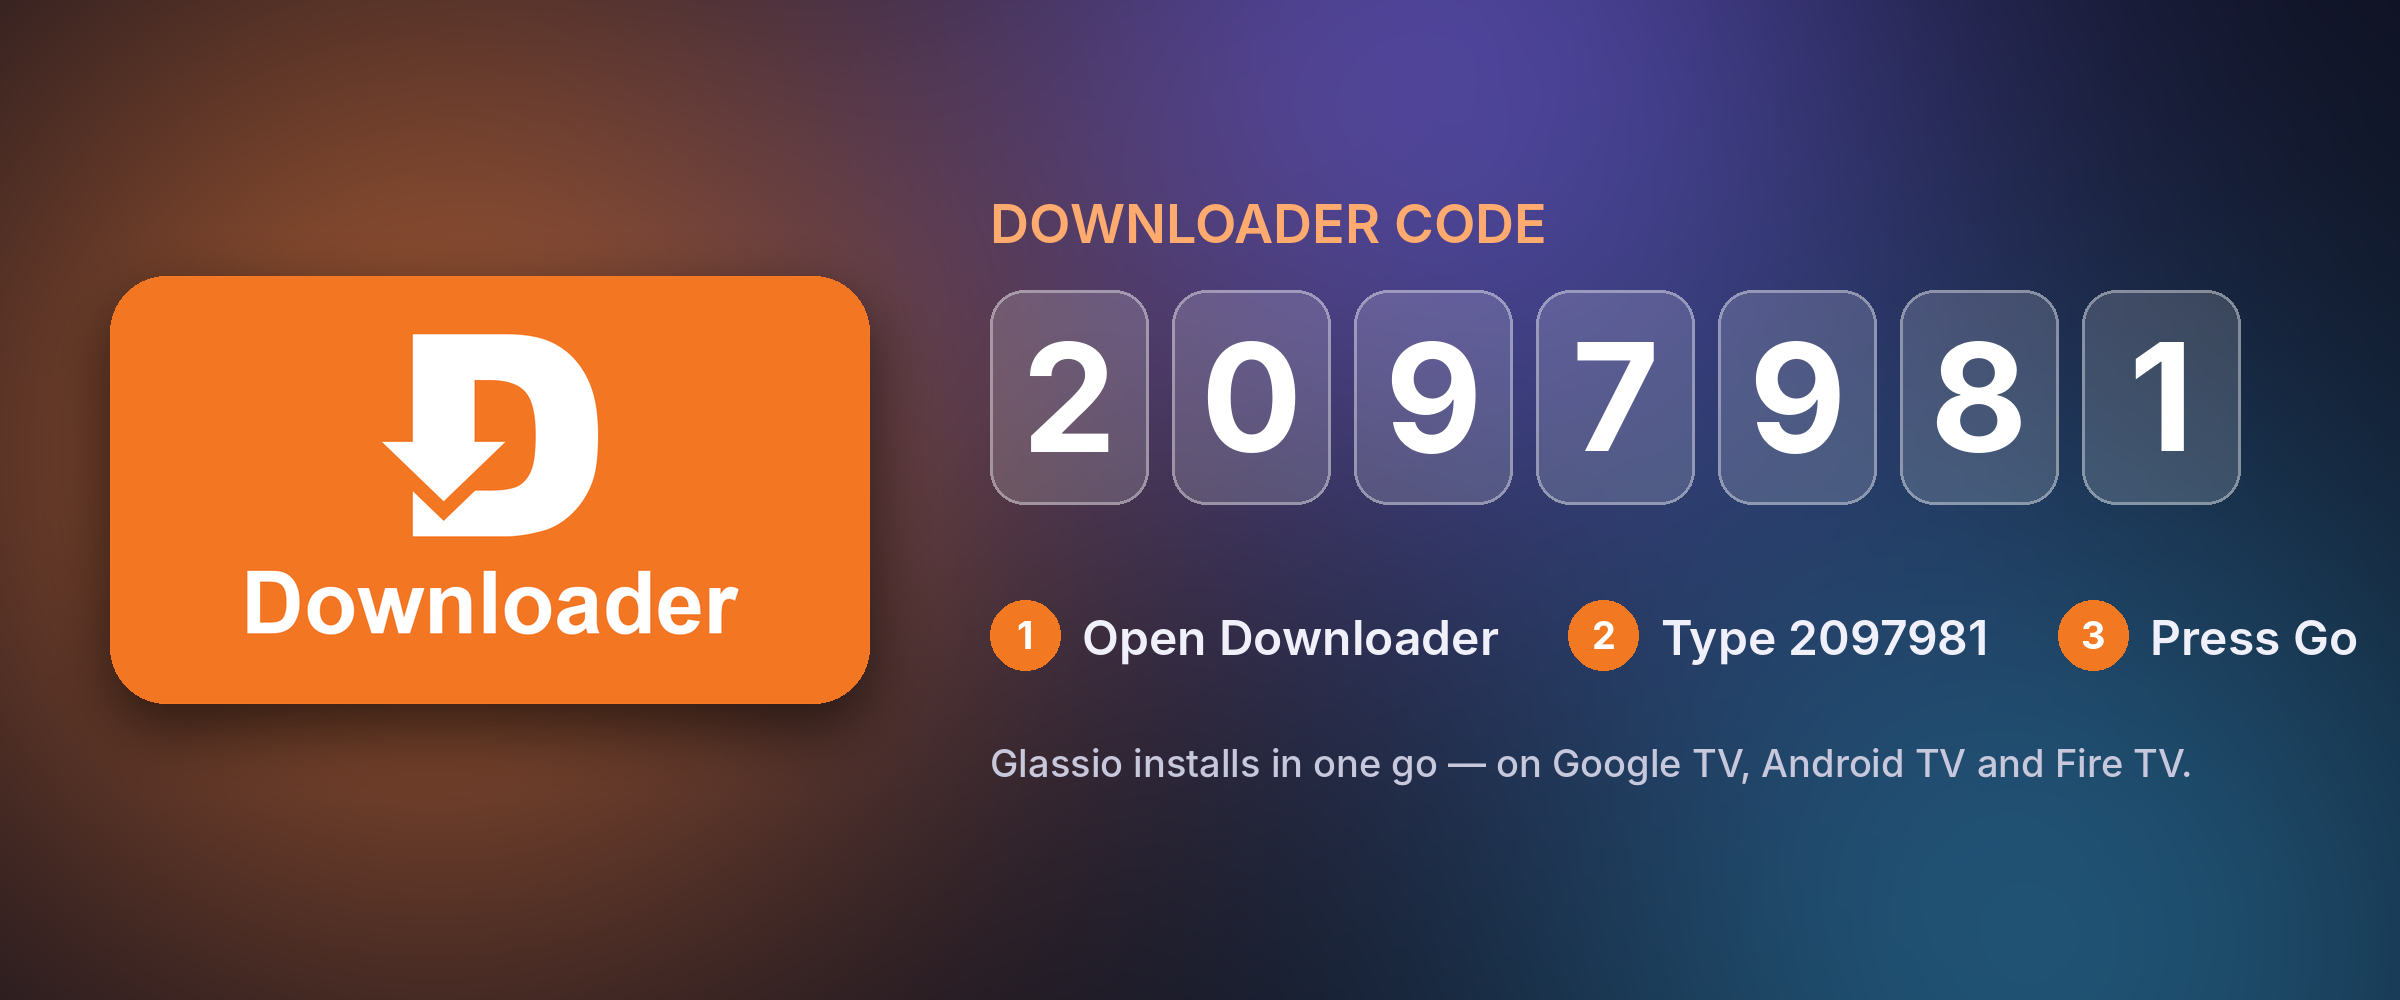
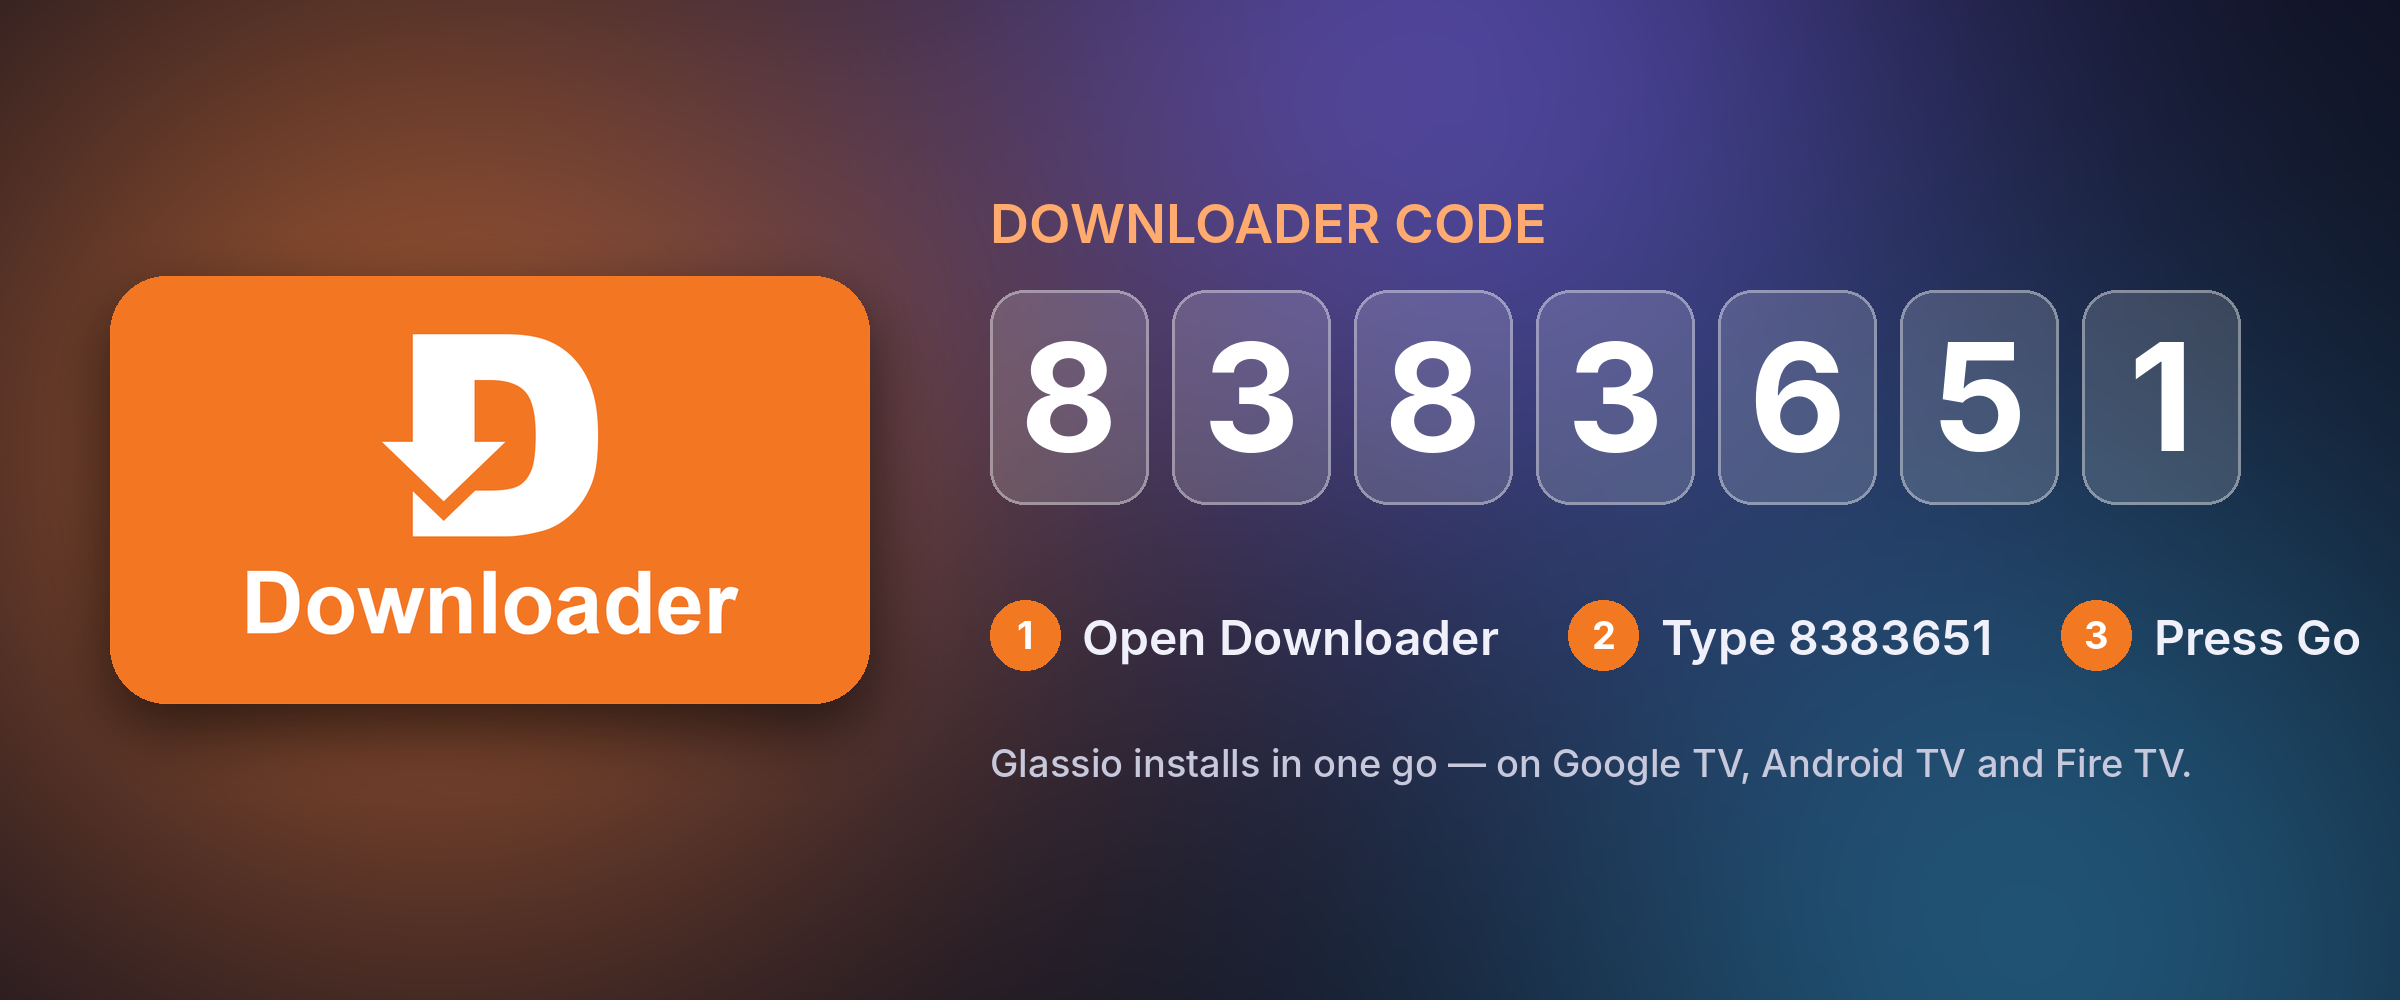
README: Downloader code 8383651 (always the latest release)

diff --git a/docs/README.ar.md b/docs/README.ar.md
@@ -2,7 +2,7 @@
 
 <p align="center">
   <a href="https://www.reddit.com/r/glassio_/"><img src="https://img.shields.io/badge/Reddit-r%2Fglassio__-FF4500?style=for-the-badge&logo=reddit&logoColor=white" alt="انضم لـ r/glassio_ على ريدت"></a>
[2 lines of base64/hex data omitted]
   <a href="https://github.com/mohammadmrh12/glassio/releases/latest"><img src="https://img.shields.io/github/v/release/mohammadmrh12/glassio?style=for-the-badge&label=Download&color=6E5BFF" alt="Download the latest release"></a>
   <a href="https://github.com/mohammadmrh12/glassio/discussions"><img src="https://img.shields.io/badge/Discussions-GitHub-2EA2C4?style=for-the-badge&logo=github&logoColor=white" alt="Discussions"></a>
 </p>
@@ -48,11 +48,11 @@ Home Assistant، وسنك بين تلفزيوناتك.
 
 ## التثبيت
 
-<a href="https://aftv.news/2097981"><img src="brand/downloader_code.png" width="100%" alt="كود داونلودر 2097981"></a>
+<a href="https://aftv.news/8383651"><img src="brand/downloader_code.png" width="100%" alt="كود داونلودر 8383651"></a>
 
-### بالداونلودر — أسهل طريقة (الكود: **2097981**)
+### بالداونلودر — أسهل طريقة (الكود: **8383651**)
 1. نزّل تطبيق **Downloader** (من AFTVnews) على التلفزيون من Google Play أو Amazon Appstore.
-2. افتحه، واكتب **`2097981`** بالمربع ودوس **Go** — يبدي تحميل Glassio.
+2. افتحه، واكتب **`8383651`** بالمربع ودوس **Go** — يبدي تحميل Glassio.
 3. أول مرة التلفزيون يطلب تسمح لداونلودر يثبّت تطبيقات: شغّل **Allow from this source** وارجع.
    *فاير تي في*: Settings ← My Fire TV ← Developer options ← **Install unknown apps** ← Downloader ← On.
 4. دوس **Install** وبعدين **Open**. داونلودر يگدر يمسح الملف بعدها حتى يفرّغ مساحة.

diff --git a/README.md b/README.md
@@ -2,7 +2,7 @@
 
 <p align="center">
   <a href="https://www.reddit.com/r/glassio_/"><img src="https://img.shields.io/badge/Reddit-r%2Fglassio__-FF4500?style=for-the-badge&logo=reddit&logoColor=white" alt="Join r/glassio_ on Reddit"></a>
[2 lines of base64/hex data omitted]
   <a href="https://github.com/mohammadmrh12/glassio/releases/latest"><img src="https://img.shields.io/github/v/release/mohammadmrh12/glassio?style=for-the-badge&label=Download&color=6E5BFF" alt="Download the latest release"></a>
   <a href="https://github.com/mohammadmrh12/glassio/discussions"><img src="https://img.shields.io/badge/Discussions-GitHub-2EA2C4?style=for-the-badge&logo=github&logoColor=white" alt="Discussions"></a>
 </p>
@@ -54,7 +54,7 @@ Latest: **3.7.0** — your own picture as the settings button, Menu & themes in 
 
 ## Get started
 
-<a href="https://aftv.news/2097981"><img src="docs/brand/downloader_code.png" width="100%" alt="Downloader code 2097981: open Downloader, type 2097981, press Go"></a>
+<a href="https://aftv.news/8383651"><img src="docs/brand/downloader_code.png" width="100%" alt="Downloader code 8383651: open Downloader, type 8383651, press Go"></a>
 
 <a id="install"></a>
 
@@ -63,7 +63,7 @@ Latest: **3.7.0** — your own picture as the settings button, Menu & themes in 
 | Step | On the TV |
 |:--:|---|
 | **1** | Install **Downloader** from Google Play or the Amazon Appstore |
-| **2** | Open it, type **`2097981`** and press **Go** |
+| **2** | Open it, type **`8383651`** and press **Go** |
 | **3** | When the TV asks, let Downloader install apps (**Allow from this source**) |
 | **4** | Press **Install**, then **Open** — the setup walks you through accounts, catalogs and the look |
 
